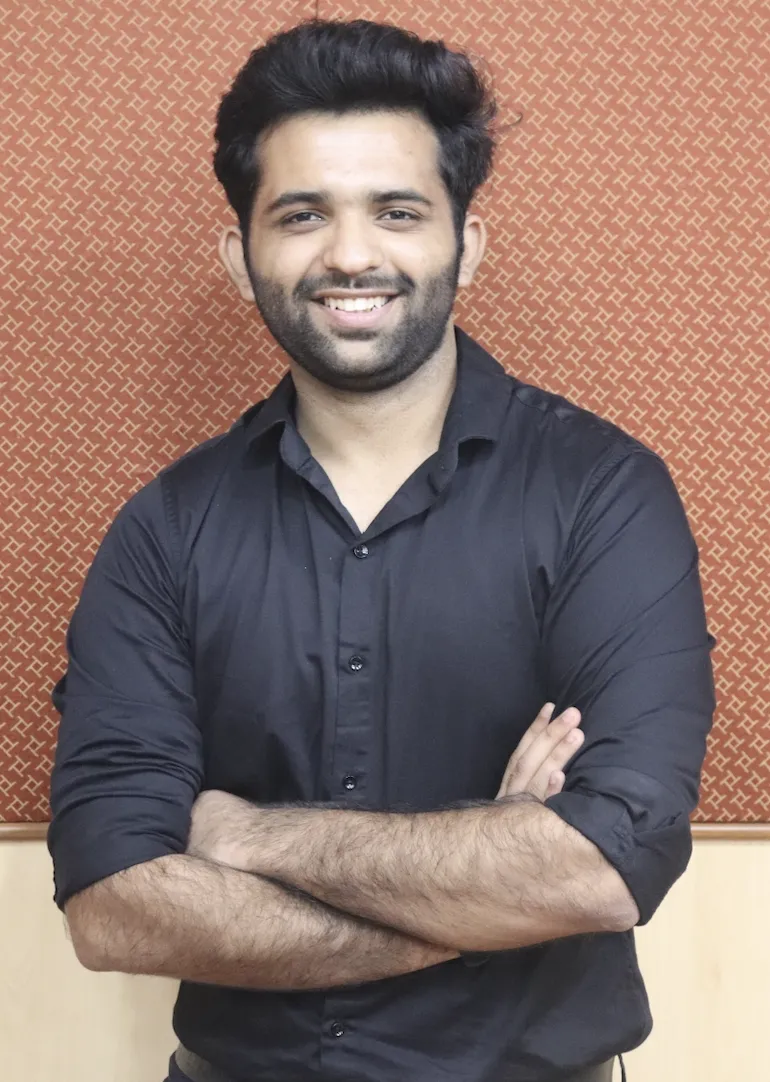
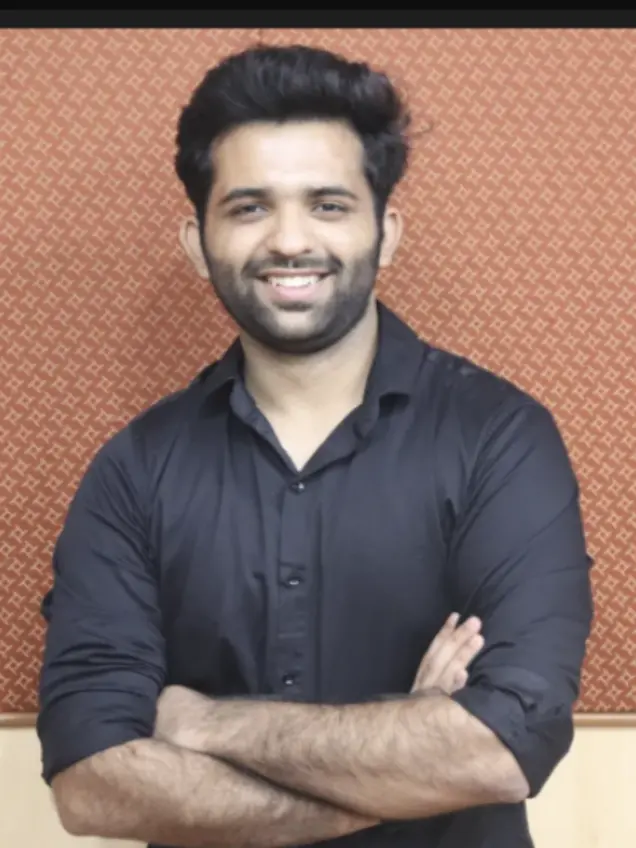
fix: reduced network size

diff --git a/src/components/TeamGrid.jsx b/src/components/TeamGrid.jsx
@@ -432,7 +432,7 @@ const boardMembersData = {
     {
       name: "Chaitanay Kapoor",
       designation: "Vice Chairperson",
-      image: "https://res.cloudinary.com/abhi-server/image/upload/v1748419246/Screenshot_2025-05-28_133036_pe9gdn.png",
+      image: "/images/board/24-25/vc.webp",
       socialLinks: {
         linkedin: "https://www.linkedin.com/in/chaitanay-kapoor-717bb8299/",
         github: "https://github.com/chaitanay2004",
@@ -462,7 +462,7 @@ const boardMembersData = {
     {
       name: "Harshit PG",
       designation: "Projects Head",
-      image: "https://res.cloudinary.com/abhi-server/image/upload/v1744698914/IMG_8908_ribuyq.jpg",
+      image: "/images/board/24-25/ph.webp",
       socialLinks: {
         linkedin: "https://www.linkedin.com/in/harshit-p-g-a87623272/",
         github: "https://github.com/HarshitPG",
@@ -522,7 +522,7 @@ const boardMembersData = {
     {
       name: "Harshvardhan Singh",
       designation: "Management Head",
-      image: "https://res.cloudinary.com/abhi-server/image/upload/v1744698895/IMG_8940_ssejcl.jpg",
+      image: "/images/board/25-26/chair.webp",
       socialLinks: {
         linkedin: "https://www.linkedin.com/in/harshvardhan-singh-b66728250/",
         github: "https://github.com/harshvar36",
@@ -552,7 +552,7 @@ const boardMembersData = {
     {
       name: "Kanha Khantaal",
       designation: "Outreach Head",
-      image: "https://res.cloudinary.com/abhi-server/image/upload/v1744699415/IMG_8886_axougi.jpg",
+      image: "/images/board/25-26/gensec.webp",
       socialLinks: {
         linkedin: "https://www.linkedin.com/in/kanha-khantaal-829302258",
         github: "https://github.com/Kanha02052002",
@@ -574,7 +574,7 @@ const boardMembersData = {
     {
       name: "Harshvardhan Singh",
       designation: "ChairPerson",
-      image: "https://res.cloudinary.com/abhi-server/image/upload/v1744698895/IMG_8940_ssejcl.jpg",
+      image: "/images/board/25-26/chair.webp",
       socialLinks: {
         linkedin: "https://www.linkedin.com/in/harshvardhan-singh-b66728250/",
         github: "https://github.com/harshvar36",
@@ -584,7 +584,7 @@ const boardMembersData = {
     {
       name: "Kanha Khantaal",
       designation: "General Secretary",
-      image: "https://res.cloudinary.com/abhi-server/image/upload/v1744699415/IMG_8886_axougi.jpg",
+      image: "/images/board/25-26/gensec.webp",
       socialLinks: {
         linkedin: "https://www.linkedin.com/in/kanha-khantaal-829302258",
         github: "https://github.com/Kanha02052002",
@@ -594,7 +594,7 @@ const boardMembersData = {
     {
       name: "Samriddhi Sharma",
       designation: "Vice Chairperson",
-      image: "https://res.cloudinary.com/abhi-server/image/upload/v1748318434/Screenshot_2025-05-27_093020_lsa2ng.png",
+      image: "/images/board/25-26/vc-25.webp",
       socialLinks: {
         linkedin: "http://www.linkedin.com/in/samriddhi-s-",
         github: "https://github.com/ck-ss",
@@ -604,7 +604,7 @@ const boardMembersData = {
     {
       name: "Keshav Gujrathi",
       designation: "Co-Secretary",
-      image: "https://res.cloudinary.com/abhi-server/image/upload/v1744699365/IMG_8851_celrwo.jpg",
+      image: "/images/board/25-26/cosec.webp",
       socialLinks: {
         linkedin: "http://www.linkedin.com/in/keshavgujrathi",
         github: "https://github.com/keshavgujrathi",
@@ -614,7 +614,7 @@ const boardMembersData = {
     {
       name: "Abhinav Garg",
       designation: "Technical Head",
-      image: "https://res.cloudinary.com/abhi-server/image/upload/v1744699403/IMG_8869_togwb7.jpg",
+      image: "/images/board/25-26/tech.webp",
       socialLinks: {
         linkedin: "https://www.linkedin.com/in/abhinav-garg05",
         github: "https://github.com/ABHINAVGARG05",
@@ -624,7 +624,7 @@ const boardMembersData = {
     {
       name: "Suvidh Jain",
       designation: "Projects Head",
-      image: "https://res.cloudinary.com/abhi-server/image/upload/v1744699404/IMG_8876_xybmsc.jpg",
+      image: "/images/board/25-26/projects.webp",
       socialLinks: {
         linkedin: "https://www.linkedin.com/in/suvidh-jain-72a88728a/",
         github: "https://github.com/SuvidhJ",
@@ -634,7 +634,7 @@ const boardMembersData = {
     {
       name: "Bihan Banerjee",
       designation: "Events Head",
-      image: "https://res.cloudinary.com/abhi-server/image/upload/v1744721350/WhatsApp_Image_2025-04-15_at_13.02.03_8b7a9ba6_rdn63h.jpg",
+      image: "/images/board/25-26/events.webp",
       socialLinks: {
         linkedin: "https://www.linkedin.com/in/bihan-banerjee-70905228b",
         github: "https://github.com/Bihan-Banerjee",
@@ -644,7 +644,7 @@ const boardMembersData = {
     {
       name: "Prateek Batra",
       designation: "Research and Development Head",
-      image: "https://res.cloudinary.com/abhi-server/image/upload/v1744699401/IMG_8868_lpiy3w.jpg",
+      image: "/images/board/25-26/rnd.webp",
       socialLinks: {
         linkedin: "http://www.linkedin.com/in/prateekbatradel",
         github: "https://github.com/PrateekBatra23",
@@ -654,7 +654,7 @@ const boardMembersData = {
     {
       name: "Mahima Gupta",
       designation: "Publicity Head",
-      image: "https://res.cloudinary.com/abhi-server/image/upload/v1744699352/IMG_8843_qxoka4.jpg",
+      image: "/images/board/25-26/publicity.webp",
       socialLinks: {
         linkedin: "http://www.linkedin.com/in/mahima-gupta-a51b1728a",
         github: "https://github.com/mahimag07",
@@ -664,7 +664,7 @@ const boardMembersData = {
     {
       name: "Linga Nikhil Arya",
       designation: "Design Head",
-      image: "https://res.cloudinary.com/abhi-server/image/upload/v1744698916/IMG_8905_rhfoee.jpg",
+      image: "/images/board/25-26/design.webp",
       socialLinks: {
         linkedin: "https://www.linkedin.com/in/nikhil-arya-linga-941a3028a/",
         github: "https://github.com/nikhillinga",
@@ -674,7 +674,7 @@ const boardMembersData = {
     {
       name: "Rishi Chalana",
       designation: "Management Head",
-      image: "https://res.cloudinary.com/abhi-server/image/upload/v1748281021/Screenshot_2025-05-26_230644_uhrava.png",
+      image: "/images/board/25-26/mang.webp",
       socialLinks: {
         linkedin: "https://www.linkedin.com/in/rishi-chalana-08654520a",
         github: "https://github.com/RishiChalana",
@@ -684,7 +684,7 @@ const boardMembersData = {
     {
       name: "Somil Gupta",
       designation: "Outreach Head",
-      image: "https://res.cloudinary.com/abhi-server/image/upload/v1744698903/IMG_8929_ofhgw7.jpg",
+      image: "/images/board/25-26/out.webp",
       socialLinks: {
         linkedin: "https://www.linkedin.com/in/somil-gupta-040479285/",
         github: "https://github.com/Somil1109",
@@ -694,7 +694,7 @@ const boardMembersData = {
     {
       name: "Nandini Khantaal",
       designation: "HR Head",
-      image: "https://res.cloudinary.com/abhi-server/image/upload/v1744699329/IMG_8828_jaxvtl.jpg",
+      image: "/images/board/25-26/hr.webp",
       socialLinks: {
         linkedin: "https://www.linkedin.com/in/nandini-khantaal-69719628b",
         github: "https://github.com/NandiniKhantaal",
@@ -704,7 +704,7 @@ const boardMembersData = {
     {
       name: "Ansh Jerath",
       designation: "Finance Head",
-      image: "https://res.cloudinary.com/abhi-server/image/upload/v1744699413/IMG_8881_etpdsr.jpg",
+      image: "/images/board/25-26/finance.webp",
       socialLinks: {
         linkedin: "http://www.linkedin.com/in/ansh-jerath-a25412214",
         github: "https://github.com/darkhorse0204",
@@ -714,7 +714,7 @@ const boardMembersData = {
     {
       name: "Kokil Agarwal",
       designation: "Creative Head",
-      image: "https://res.cloudinary.com/abhi-server/image/upload/v1748282976/IMG_6305_ygxulj.png",
+      image: "/images/board/25-26/creativity.webp",
       socialLinks: {
         linkedin: "https://www.linkedin.com/in/kokil-agarwal",
         github: "https://github.com/KokilAgarwal",
@@ -724,7 +724,7 @@ const boardMembersData = {
     {
       name: "Saanvi Sharma",
       designation: "Public Relations Head",
-      image: "https://res.cloudinary.com/abhi-server/image/upload/v1744698906/IMG_8924_k2h4ko.jpg",
+      image: "/images/board/25-26/pnr.webp",
       socialLinks: {
         linkedin: "https://www.linkedin.com/in/saanvi-sharma-254b782a5/",
         github: "https://github.com/saanvi3605",

diff --git a/src/components/TopTeam.jsx b/src/components/TopTeam.jsx
@@ -23,18 +23,19 @@ const Toplayout = () => {
             </h1>
           </div>
 
-          <div className="mt-3 md:mt-4 lg:mt-5 text-center font-CAYoshiroTRIAL text-sm md:text-base lg:text-lg">
-            <p>
-              Jayakumar Sadhasivam is an Assistant Professor Senior Grade 1 at
-              Vellore Institute of Technology (VIT) in <br /> the School of
-              Computer Science and Engineering (SCOPE). Jayakumar's areas of
-              expertise include Open <br /> Source Programming, Network
-              Security, Storage Technologies, and Machine Learning. His research{" "}
-              <br /> interests are in the use of technology in education and
-              developing open-source software that takes into <br /> consideration
-              the unique needs of learners. <br />
-            </p>
-          </div>
+          <div className="mt-3 md:mt-4 lg:mt-5 text-justify md:text-center font-CAYoshiroTRIAL text-sm md:text-base lg:text-lg">
+          <p>
+            Jayakumar Sadhasivam is an Assistant Professor Senior Grade 1 at
+            Vellore Institute of Technology (VIT) in <br /> the School of
+            Computer Science and Engineering (SCOPE). Jayakumar's areas of
+            expertise include Open <br /> Source Programming, Network
+            Security, Storage Technologies, and Machine Learning. His research{" "}
+            <br /> interests are in the use of technology in education and
+            developing open-source software that takes into <br /> consideration
+            the unique needs of learners. <br />
+          </p>
+        </div>
+
           <h1 className="text-5xl text-center font-apex font-normal leading-12 md:text-5xl lg:text-6xl">
             MEET <br /> OUR TEAM
           </h1>

diff --git a/src/Global.css b/src/Global.css
@@ -75,3 +75,9 @@ html {
     scroll-behavior: smooth;
     scroll-padding-top: 100px;
 }
+
+@media (hover: none) and (pointer: coarse) {
+  * {
+    cursor: none !important;
+  }
+}
